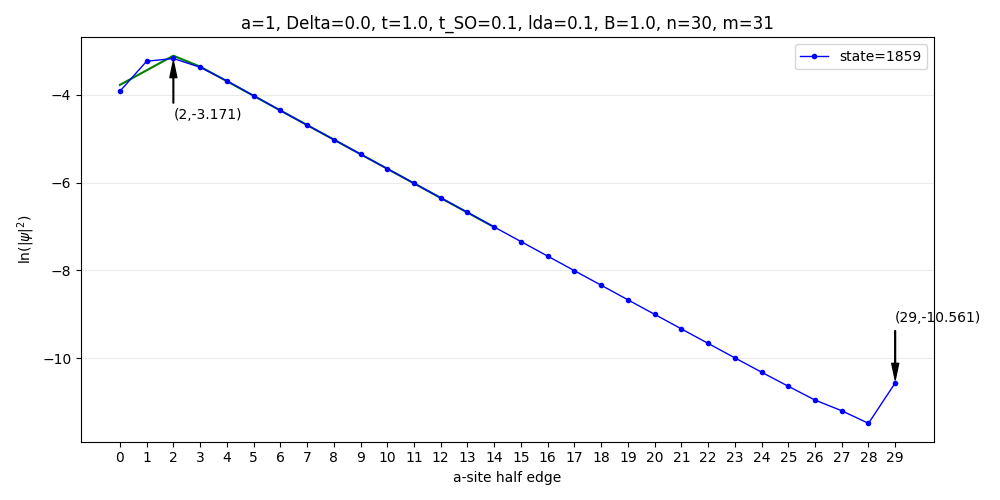
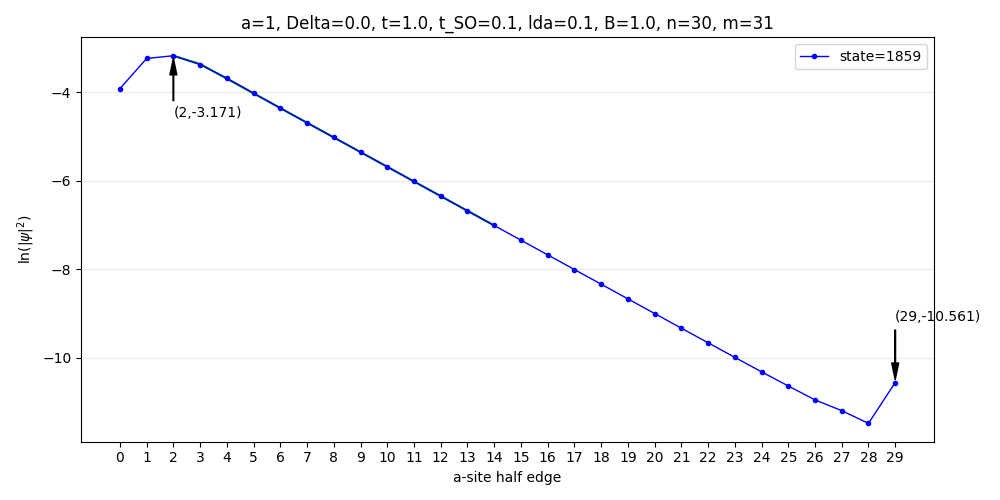
8/20 last

diff --git a/system_model.py b/system_model.py
@@ -71,12 +71,72 @@ class System(ABC):
     def get_2D_rsd_data(self, idx_list, spin=None):
         pass
 
-     # 어떤 xlist, dlist 데이터에 대해 지수 감쇠 모델을 피팅하는 함수
-    def get_exp_fit(self, xlist, dlist, log=True):  # xi_0: 초기 추정값
+    # 주어진 y값들에 대해 극대 인덱스 리스트 반환
+    @staticmethod
+    def get_peak(ylist):
+        ylist_len = len(ylist)
+        yscale = max(ylist) - min(ylist)
+        
+        def idx(i):
+            if i < 0: return 0
+            elif i >= ylist_len: return ylist_len - 1
+            else: return i
+        
+        def is_decrease(i, j):
+            i, j = idx(i), idx(j)
+            if i == j: return 1     # j가 실제 인덱스가 아닐 때
+            if ylist[i] - ylist[j] > yscale / 50: return 1 # 의미 있는 감소를 했을 때
+            elif ylist[i] > ylist[j]: return 0  # 작지만 감소는 했을 때
+            else: return -1 # 감소도 안 했을 때
+
+        def is_peak(i): # 앞 뒤 3개를 보고 peak인지 아닌지 판단한다
+            is_left_decrease, is_right_decrease = False, False
+            
+            m1, m2, m3 = is_decrease(i, i-1), is_decrease(i, i-2), is_decrease(i, i-3)
+            p1, p2, p3 = is_decrease(i, i+1), is_decrease(i, i+2), is_decrease(i, i+3)
+
+            if m1 == 1: is_left_decrease = True
+            elif m1 == 0:
+                if m2 == 1: is_left_decrease = True
+                elif m2 == 0:
+                    if m3 == 1: is_left_decrease = True
+
+            if p1 == 1: is_right_decrease = True
+            elif p1 == 0:
+                if p2 == 1: is_right_decrease = True
+                elif p2 == 0:
+                    if p3 == 1: is_right_decrease = True
+
+            return is_left_decrease and is_right_decrease
+        
+        peak_idx_list = []
+        
+        for i in range(ylist_len):
+            if is_peak(i): peak_idx_list.append(i)
+
+        '''
+        is_increase = True
+        prev_y = ylist[0]
+        for i, y in enumerate(ylist[1::]):
+            if prev_y - y > 0.001:  # 의미있는 감소를 했는데
+                if is_increase: peak_idx_list.append(i)  # 이전까지 증가했을 때(i-1이 아니라 i임 주의)
+                is_increase = False
+            elif prev_y - y < -0.001:  # 의미있는 증가만 증가로 취급
+                is_increase = True
+            else:
+                is_increase = False
+            prev_y = y
+        if is_increase: peak_idx_list.append(len(ylist) - 1)  # 마지막까지 증가했으면 마지막 인덱스도 추가
+        '''
+        return peak_idx_list
+
+    @staticmethod
+    # 어떤 xlist, dlist 데이터에 대해 지수 감쇠 모델을 피팅하는 함수
+    def get_exp_dissolve_fit(xlist, dlist, log=True, return_log=True):  # xi_0: 초기 추정값
         x = np.asarray(xlist)
         y = np.asarray(dlist)
 
-        if y[-1] > y[0]: y = y[::-1]  # 반대 그래프의 경우 순서 뒤집기
+        #if y[-1] > y[0]: y = y[::-1]  # 반대 그래프의 경우 순서 뒤집기
 
         # 피팅할 함수: 지수 감쇠 함수
         def exp_dissolve(x, A, B, xi, C):
@@ -86,24 +146,34 @@ class System(ABC):
         def exp_log_dissolve(x, A, B, xi, C):
             return np.log(A) - np.abs(x - B) / xi
 
+        #print(x)
         # 초기 추정값
         C0 = np.min(y)
         B0 = x[np.argmax(y)]
-        xi0 = (x[-1] - x[0]) / 5
+        xi0 = np.abs(x[-1] - x[0]) / 5
         A0 = np.max(y) - C0
-
+        #print(f"초기값: {A0}, {xi0}, {B0}, {C0}")
+        
         # 로그 스케일일 경우
         fit_func = exp_dissolve
         if log:
             y = np.log(np.maximum(y, 1e-13))
             fit_func = exp_log_dissolve
+            '''
             for idx in range(len(y)):
                 if idx == 0: continue
                 if np.isclose(y[idx], y[idx - 1], rtol=1e-8, atol=1e-10):
                     y = y[:idx]
                     x = x[:idx]
                     break
-
+            '''
+            '''
+            peak_idx_list = System.get_peak(y)
+            peak_idx = peak_idx_list[0]
+            
+            y = y[peak_idx:]
+            x = x[peak_idx:]
+            '''
         # 피팅
         parameters, _ = curve_fit(
             fit_func,
@@ -113,6 +183,69 @@ class System(ABC):
             bounds=([0, 0, 1e-10, 0], [np.inf, np.inf, np.inf, np.inf]),
             maxfev=100000
         )
+        
+        if return_log: fit_func = exp_log_dissolve
+        else: fit_func = exp_dissolve
+        x_fit = x
+        y_fit = fit_func(x_fit, *parameters)
+        
+        return parameters, x_fit, y_fit
 
-        return parameters
+    @staticmethod
+    def get_exp_fit(xlist, dlist, log=True, return_log=True):  # xi_0: 초기 추정값
+        x = np.asarray(xlist)
+        y = np.asarray(dlist)
 
+        #if y[-1] > y[0]: y = y[::-1]  # 반대 그래프의 경우 순서 뒤집기
+
+        # 피팅할 함수: 지수 함수
+        def exp_dissolve(x, A, xi, C):
+            return A * 2.668 ** (x / xi) + C
+
+        # 피팅할 함수2: 세미로그 함수
+        def exp_log_dissolve(x, A, xi, C):
+            return np.log(A)/np.log(2.668) + x / xi
+
+        #print(x)
+        # 초기 추정값
+        C0 = np.min(y)
+        xi0 = np.abs(x[-1] - x[0]) / 5
+        A0 = np.max(y) - C0
+        #print(f"초기값: {A0}, {xi0}, {B0}, {C0}")
+        
+        # 로그 스케일일 경우
+        fit_func = exp_dissolve
+        if log:
+            y = np.log(np.maximum(y, 1e-13))
+            fit_func = exp_log_dissolve
+            '''
+            for idx in range(len(y)):
+                if idx == 0: continue
+                if np.isclose(y[idx], y[idx - 1], rtol=1e-8, atol=1e-10):
+                    y = y[:idx]
+                    x = x[:idx]
+                    break
+            '''
+            '''
+            peak_idx_list = System.get_peak(y)
+            peak_idx = peak_idx_list[0]
+            
+            y = y[peak_idx:]
+            x = x[peak_idx:]
+            '''
+        # 피팅
+        parameters, _ = curve_fit(
+            fit_func,
+            x,
+            y,
+            p0=[A0, xi0, C0],  # A, B, xi, C의 초기 추정값
+            bounds=([0, 1e-10, 0], [np.inf, np.inf, np.inf]),
+            maxfev=100000
+        )
+        
+        if return_log: fit_func = exp_log_dissolve
+        else: fit_func = exp_dissolve
+        x_fit = x
+        y_fit = fit_func(x_fit, *parameters)
+        
+        return parameters, x_fit, y_fit

diff --git a/plot_many_data.py b/plot_many_data.py
@@ -44,7 +44,7 @@ if __name__ == '__main__':
             if variation_param == 'size':
                 new_params[5:7] = [value, value]
             else:
-                new_params[param_idx[variation_param]] = round(value,1)
+                new_params[param_idx[variation_param]] = value
 
             model = Diamond(a, new_params)
             
@@ -59,26 +59,38 @@ if __name__ == '__main__':
             x_fit = x[:len(x)//2]
             d_fit = density_list[0][:len(density_list[0])//2]
 
-            A, B, xi, C = model.get_exp_fit(x_fit, d_fit, log=True)
+            parameters, x_fit, d_fit = model.get_exp_dissolve_fit(x_fit, d_fit, log=True, return_log=True)
+            A, B, xi, C = parameters
             xi_list.append(xi)
-            
+            '''
             fig, ax = plt.subplots(figsize=(10, 5))
-            ax.plot(
-                x_fit,
-                np.log(A) - np.abs(x_fit - B) / xi,
-                color='green'
-            )
-            
+            ax.plot(x_fit,d_fit,color='green')
+            '''
             band_gap_list.append(model.evals_list[0][states[1] + 1] - model.evals_list[0][states[0] - 1])
             split_list.append(model.evals_list[0][states[1]] - model.evals_list[0][states[0]])
-            DataPlot.draw_rsd(model, rsd_data, ax=ax, log=True)
+            #DataPlot.draw_rsd(model, rsd_data, ax=ax, log=True)
         
         if variation_param == 'size': variation_values = [int(value) for value in variation_values]
-        DataPlot.draw_any_data(model,(variation_values, xi_list, variation_param, r"$\xi$", f"n={n}, m={m}", None), title="Localization length", log=True)
+        print("xi list = ", xi_list)
+        #DataPlot.draw_any_data(model,(variation_values, xi_list, variation_param, r"$\xi$", f"n={n}, m={m}", None), title="Localization length", log=False)
 
-        #DataPlot.draw_any_data(model,(variation_values, band_gap_list, variation_param, "Band Gap (E/t)", f"$\lambda$={params[3]}", [0, 0.367043]), title="Band Gap", log=True, x_inverse=True)
+        #DataPlot.draw_any_data(model,(variation_values, band_gap_list, variation_param, "Band Gap (E/t)", fr"$\lambda$={params[3]}", [0, 0.367043]), title="Band Gap", log=True, x_inverse=True)
 
-        #DataPlot.draw_any_data(model, (variation_values, split_list, variation_param, "Splitting (E/t)", f"$\lambda$={params[3]}", None), title="Splitting", log=True, x_inverse=True)
+        #DataPlot.draw_any_data(model, (variation_values, split_list, variation_param, "Splitting (E/t)", fr"$\lambda$={params[3]}", None), title="Splitting", log=True, x_inverse=True)
+        
+        size = [4, 8, 16, 32, 64]
+        run_time = [260, 380, 1053, 41419, 2063174]
+        
+        size_inverse = 1/np.asarray(size)
+        log_run_time = [np.log2(rt) for rt in run_time]
+        parameters, size_fit, runtime_fit = model.get_exp_fit(size, run_time, log=True, return_log=True)
+        A,xi,C = parameters 
+        print(f"Run time = {A:5.3f} * 2.668 ^ (n / {xi:5.3f}) + {C:5.3f}")
+        print("Run time ( n = 90 ) = ", A * 2.668 ** (90 / xi) + C)
+        fig, ax = plt.subplots()
+        ax.plot(size_fit, runtime_fit, color='green')
+        
+        DataPlot.draw_any_data(model, (size, run_time, 'size', "Running time(ms)", r"$\lambda$=0.2", None), title="Running Time", ax=ax, log=True, x_inverse=False)
         
 '''
 

diff --git a/system_plot.py b/system_plot.py
@@ -122,25 +122,6 @@ class DataPlot():
         else:
             return min(candidates, key=lambda x: x[0])[1]
 
-    # 주어진 y값들에 대해 극대 인덱스 리스트 반환
-    @staticmethod
-    def get_peak(ylist):
-        peak_idx_list = []
-        is_increase = True
-        prev_y = ylist[0]
-        for i, y in enumerate(ylist[1::]):
-            if prev_y - y > 0.01:  # 의미있는 감소를 했는데
-                if is_increase: peak_idx_list.append(i)  # 이전까지 증가했을 때(i-1이 아니라 i임 주의)
-                is_increase = False
-            elif prev_y - y < -0.01:  # 의미있는 증가만 증가로 취급
-                is_increase = True
-            else:
-                is_increase = False
-            prev_y = y
-        if is_increase: peak_idx_list.append(len(ylist) - 1)  # 마지막까지 증가했으면 마지막 인덱스도 추가
-
-        return peak_idx_list
-
     @staticmethod
     def draw_rsd(model, rsd_data,
                  ax=None, title=None,
@@ -164,7 +145,8 @@ class DataPlot():
             else:
                 ax.plot(xlist,density,marker="o",markersize=3,linestyle="none",label=f"state={states[i]}", color=color_list[i])
 
-            peak_idxs = DataPlot.get_peak(density)
+            peak_idxs = model.get_peak(density)
+            #print("peak_idxs=",peak_idxs)
             y_scale = np.max(density) - np.min(density)
             y_mid = (np.max(density) + np.min(density)) / 2
             print(y_scale)
@@ -270,7 +252,7 @@ class DataPlot():
                     color="red"
                 )
         if log:
-            xi_list = np.log2(np.maximum(xi_list, 1e-13))
+            xi_list = np.log(np.maximum(xi_list, 1e-13))/np.log(2.668)
         
         if x_inverse: 
             xlist_inverse = 1/np.asarray(xlist)
@@ -279,8 +261,9 @@ class DataPlot():
             ax.plot(xlist_inverse, xi_list, marker="o",markersize=3,linewidth=1, color="black", label=label)
             ax.set_xticks(np.insert(xlist_inverse, 0, 0) if extra_data is not None else xlist_inverse)
             ax.set_xticklabels(np.insert(xtick_labels,0, 0) if extra_data is not None else xtick_labels)
-        
         else:
+            ax.set_xticks(xlist)
+            ax.set_xticklabels(xlist)
             ax.plot(xlist, xi_list, marker="o", markersize=3, linewidth=1, color="black", label=label)
         
         ax.legend()
@@ -293,11 +276,13 @@ class DataPlot():
                 ax.set_xlabel(xlabel, size=15)
             if log: 
                 ax.set_title(f"{model.title}(log scale)")
-                ax.set_ylabel(fr"$log_2$({ylabel})", size=15)
+                ax.set_ylabel(fr"$log_(2.668)$({ylabel})", size=15)
             else: 
                 ax.set_title(model.title)
                 ax.set_ylabel(ylabel, size=15)
+            
             fig.tight_layout()
-            fig.savefig(f"images/{model.name}_{title} - {xlabel}.png")
+            if log: fig.savefig(f"images/{model.name}_{title}(log) - {xlabel}.png")
+            else: fig.savefig(f"images/{model.name}_{title} - {xlabel}.png")
             plt.show()
             plt.close()

diff --git a/save_many_data.py b/save_many_data.py
@@ -38,7 +38,7 @@ if __name__ == "__main__":
         # default
         a = 1
         params = np.asarray([0, 1, 0.1, 0.2, 1, 30, 31])
-        #         Δ  t  tSO  lda B  n   m
+        #                    Δ  t  tSO  lda B  n   m
 
         param_idx = {
             't_SO': 2,
@@ -61,7 +61,7 @@ if __name__ == "__main__":
             if variation_param == 'size':
                 new_params[5:7] = [value, value]
             else:
-                new_params[param_idx[variation_param]] = round(value,1)
+                new_params[param_idx[variation_param]] = value
 
             model = Diamond(a, new_params)
             save_eigen_data(model)

diff --git a/plot_data.py b/plot_data.py
@@ -34,7 +34,7 @@ if __name__ == '__main__':
         xlist, dlist, _, _, _, _, _ = rsd_data
         xlist = xlist[:len(xlist)//2]
         dlist = dlist[0][:len(dlist[0])//2]
-        A,B,xi,C = model.get_exp_fit(xlist, dlist, log=True)
+        A,B,xi,C = model.get_exp_dissolve_fit(xlist, dlist, log=True)
         print(f"xi(lda={model.params[3]})={xi}")
 
         fig, ax = plt.subplots(figsize=(10, 5))

diff --git a/ribbon_model.py b/ribbon_model.py
@@ -306,7 +306,7 @@ class Ribbon(System):
                 x = x_b
                 density = density_b
 
-            _, _, xi, _ = self.get_exp_fit(x, density, log=log)
+            _, _, xi, _ = self.get_exp_dissolve_fit(x, density, log=log)
             xi_list.append(xi)
 
         self.xi_data = xi_list, "xi", 0.5
